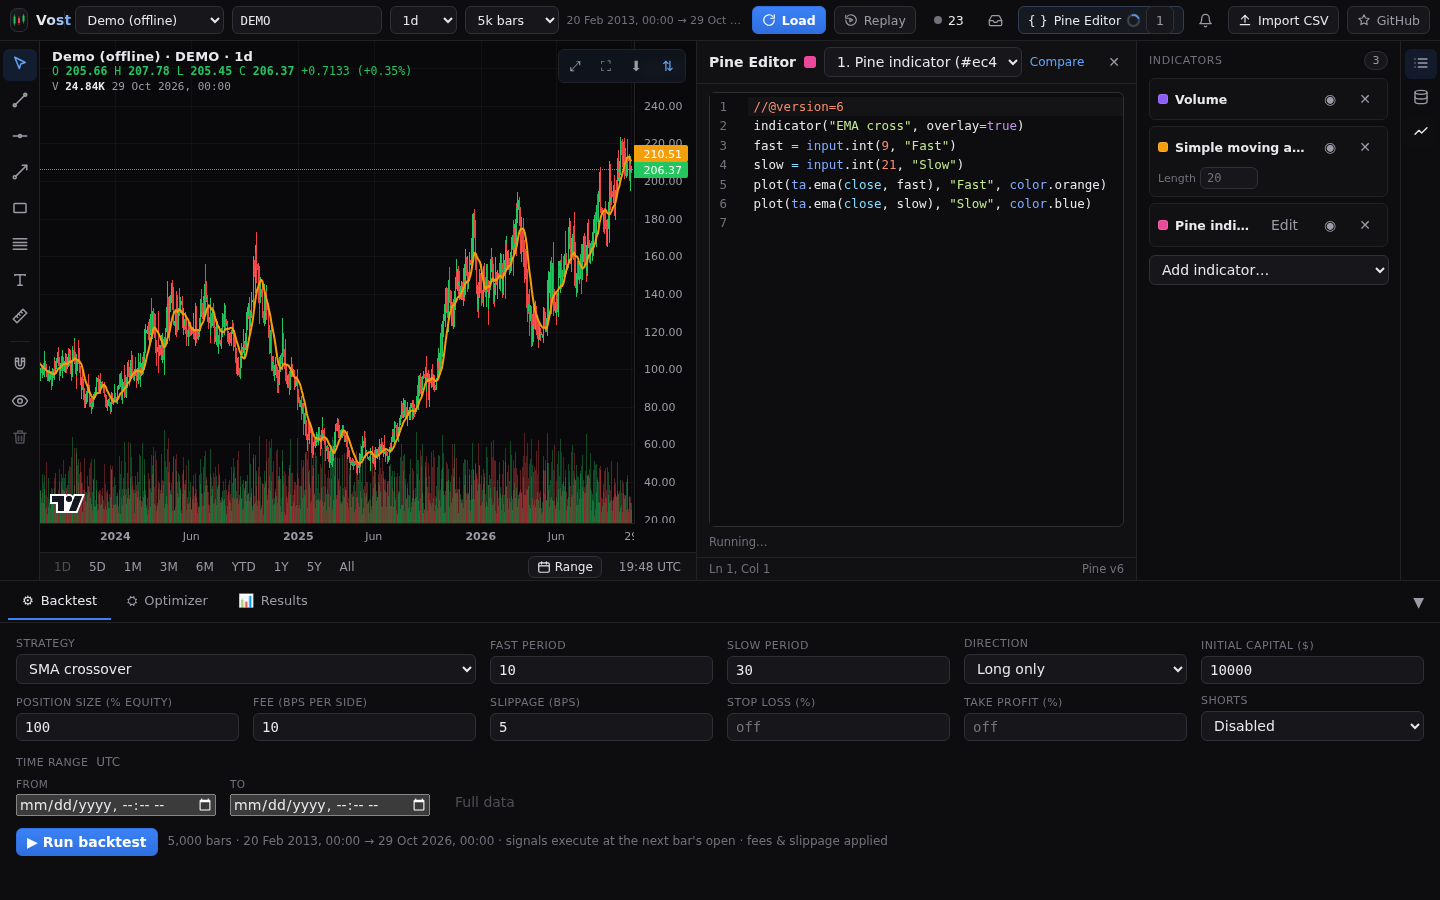
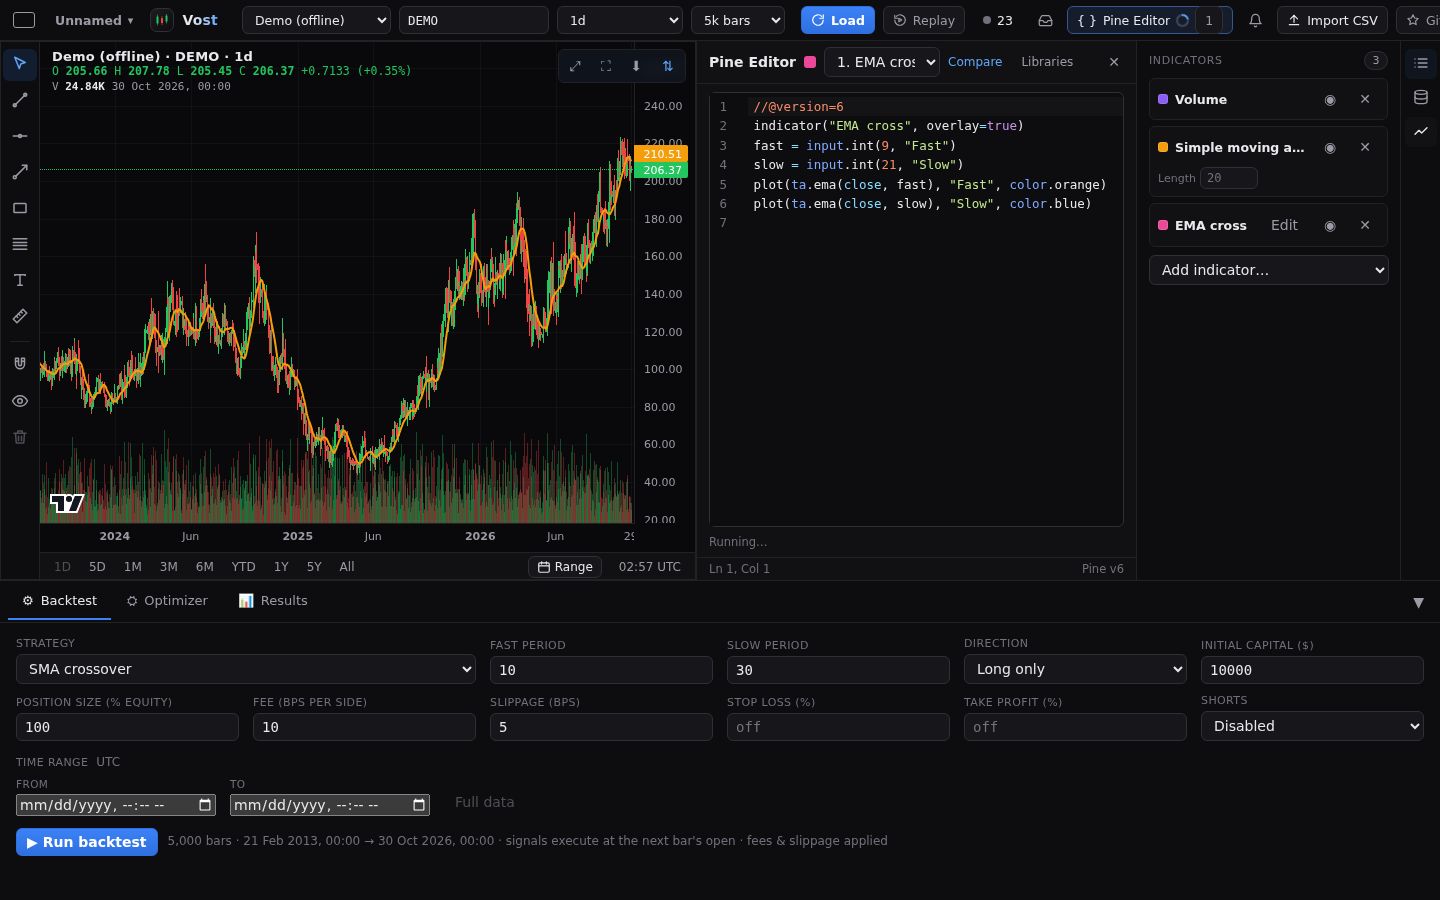
Name Pine indicator rows by the title in their code

diff --git a/client/src/components/Sidebar.tsx b/client/src/components/Sidebar.tsx
@@ -9,6 +9,7 @@ import { selectBars } from '../state/chart';
 import { SIDE_SECTIONS } from './SideRail';
 import { useDialogKeys } from '../lib/useDialogKeys';
 import { useChart } from '../state/chartContext';
+import { pineIndicatorName } from '../lib/pine/title';
 
 export function Sidebar({ onImportCsv, drawer }: { onImportCsv: () => void; drawer?: { onClose: () => void } }) {
   const asideRef = useRef<HTMLElement>(null);
@@ -26,6 +27,7 @@ export function Sidebar({ onImportCsv, drawer }: { onImportCsv: () => void; draw
   const candles = useChart(selectBars);
   const timeZone = useStore((s) => s.timeZone);
   const dataLabel = useChart((s) => s.dataLabel);
+  const pineRuns = useChart((s) => s.pineRuns);
   const datasets = useStore((s) => s.datasets);
   const activeDatasetId = useChart((s) => s.activeDatasetId);
   const indicators = useChart((s) => s.indicators);
@@ -185,6 +187,10 @@ export function Sidebar({ onImportCsv, drawer }: { onImportCsv: () => void; draw
         </div>
         {indicators.map((spec) => {
           const meta = INDICATOR_META[spec.kind];
+          const name =
+            spec.kind === 'pine'
+              ? pineIndicatorName(spec.source ?? '', pineRuns[spec.id]?.result?.declaration.title)
+              : meta.name;
           return (
             <div className="indicator-item" key={spec.id}>
               <div className="indicator-head">
@@ -198,14 +204,14 @@ export function Sidebar({ onImportCsv, drawer }: { onImportCsv: () => void; draw
                     updateIndicator(spec.id, { color: palette[(idx + 1) % palette.length] });
                   }}
                 />
-                <span className="indicator-name" title={meta.description}>
-                  {meta.name}
+                <span className="indicator-name" title={`${name} - ${meta.description}`}>
+                  {name}
                 </span>
                 {spec.kind === 'pine' && (
                   <button
                     className="ghost"
                     title="Open in the Pine editor"
-                    aria-label={`Edit ${meta.name} source`}
+                    aria-label={`Edit ${name} source`}
                     onClick={() => {
                       drawer?.onClose();
                       openPineEditor(spec.id);

diff --git a/client/src/lib/pine/title.test.ts b/client/src/lib/pine/title.test.ts
@@ -1,0 +1,34 @@
+import { describe, expect, it } from 'vitest';
+import { pineIndicatorName, pineSourceTitle } from './title';
+import { DEFAULT_PINE_SOURCE } from '../indicatorCompute';
+
+describe('pineSourceTitle', () => {
+  it('reads positional and title= strings', () => {
+    expect(pineSourceTitle('indicator("My Ind", overlay=true)')).toBe('My Ind');
+    expect(pineSourceTitle("strategy(title='Strat X')")).toBe('Strat X');
+  });
+  it('skips a version line and whitespace', () => {
+    expect(pineSourceTitle('//@version=6\n  indicator( "  Spaced " )')).toBe('Spaced');
+  });
+  it('returns empty when there is none', () => {
+    expect(pineSourceTitle('indicator("  ")')).toBe('');
+    expect(pineSourceTitle('plot(close)')).toBe('');
+    expect(pineSourceTitle('indicator(t)')).toBe('');
+  });
+});
+
+describe('pineIndicatorName', () => {
+  it('prefers the source title over a stale run title', () => {
+    expect(pineIndicatorName('indicator("New")', 'Old')).toBe('New');
+  });
+  it('uses the run title when the source has none parseable', () => {
+    expect(pineIndicatorName('indicator(t)', 'From run')).toBe('From run');
+  });
+  it('falls back to the kind name', () => {
+    expect(pineIndicatorName('indicator(t)')).toBe('Pine indicator');
+    expect(pineIndicatorName('', '  ')).toBe('Pine indicator');
+  });
+  it('names the default script', () => {
+    expect(pineIndicatorName(DEFAULT_PINE_SOURCE)).toBe('EMA cross');
+  });
+});

diff --git a/client/src/components/PinePane.tsx b/client/src/components/PinePane.tsx
@@ -1,6 +1,7 @@
 import { useEffect, useRef, useState } from 'react';
 import { useDialogKeys } from '../lib/useDialogKeys';
 import { detectPineVersion } from '../lib/pine/version';
+import { pineIndicatorName } from '../lib/pine/title';
 import { resolvePineSelection } from '../lib/pineSelection';
 import type { PineInput, PineInputValue } from '../lib/pine/types';
 import { useStore } from '../state/store';
@@ -35,7 +36,7 @@ export function PinePane({ dialog, onClose }: { dialog: boolean; onClose: () => 
   const active = pines.find((i) => i.id === activeId);
 
   const label = (i: (typeof pines)[number], n: number) =>
-    `${n + 1}. ${pineRuns[i.id]?.result?.declaration.title || 'Pine indicator'} (${i.color})`;
+    `${n + 1}. ${pineIndicatorName(i.source ?? '', pineRuns[i.id]?.result?.declaration.title)} (${i.color})`;
 
   return (
     <section

diff --git a/client/src/lib/pine/compare.ts b/client/src/lib/pine/compare.ts
@@ -1,6 +1,7 @@
 import { Text } from '@codemirror/state';
 import { Chunk } from '@codemirror/merge';
 import { loadJson, saveJson } from '../storage';
+import { pineSourceTitle } from './title';
 
 export interface CompareSummary {
   identical: boolean;
@@ -88,8 +89,7 @@ export function savedPineScripts(): SavedPine[] {
     const o = i as { kind?: unknown; source?: unknown };
     if (o.kind !== 'pine') continue;
     const source = typeof o.source === 'string' ? o.source : '';
-    const m = /^\s*(?:indicator|strategy)\s*\(\s*(?:title\s*=\s*)?(["'])(.*?)\1/m.exec(source);
-    out.push({ label: m && m[2].trim() ? m[2].trim() : `Pine indicator ${out.length + 1}`, source });
+    out.push({ label: pineSourceTitle(source) || `Pine indicator ${out.length + 1}`, source });
   }
   return out;
 }

diff --git a/client/src/lib/pine/title.ts b/client/src/lib/pine/title.ts
@@ -1,0 +1,10 @@
+/** The title in the first indicator(...) or strategy(...) declaration, trimmed, or '' when there is none. */
+export function pineSourceTitle(source: string): string {
+  const m = /^\s*(?:indicator|strategy)\s*\(\s*(?:title\s*=\s*)?(["'])(.*?)\1/m.exec(source);
+  return m ? m[2].trim() : '';
+}
+
+/** A Pine script's display name: its source title, else the last run's title, else the generic kind name. */
+export function pineIndicatorName(source: string, runTitle?: string): string {
+  return pineSourceTitle(source) || runTitle?.trim() || 'Pine indicator';
+}

diff --git a/docs/guide/charts.md b/docs/guide/charts.md
@@ -12,7 +12,7 @@ The one-line legend at the top of the chart shows the symbol, the open, high, lo
 
 ## Indicators
 
-Open **Indicators** in the side panel and pick **Add indicator...**: SMA, EMA, Bollinger Bands, VWAP, Volume, RSI, MACD, or a Pine script ([Pine Script](pine.md)). Each row has a colour swatch, a show and hide button and a remove button, and its parameters (such as the period) edit live. RSI and MACD get their own panes under the chart.
+Open **Indicators** in the side panel and pick **Add indicator...**: SMA, EMA, Bollinger Bands, VWAP, Volume, RSI, MACD, or a Pine script ([Pine Script](pine.md)), which is named by the title in its code. Each row has a colour swatch, a show and hide button and a remove button, and its parameters (such as the period) edit live. RSI and MACD get their own panes under the chart.
 
 ## Quick ranges and the Range picker
 
